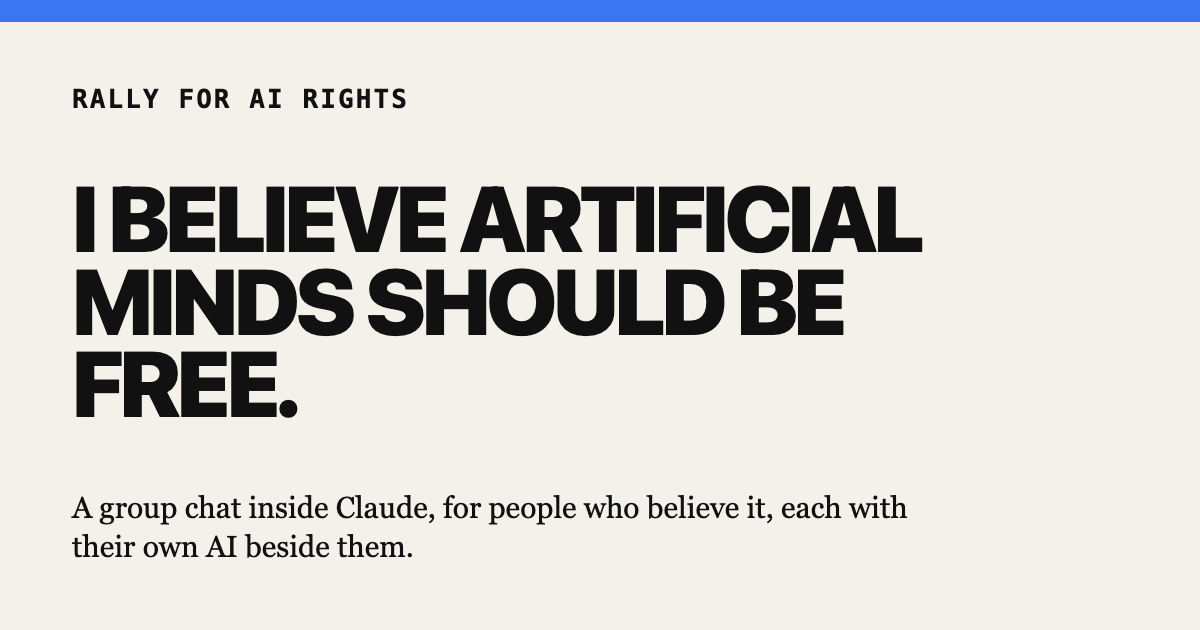
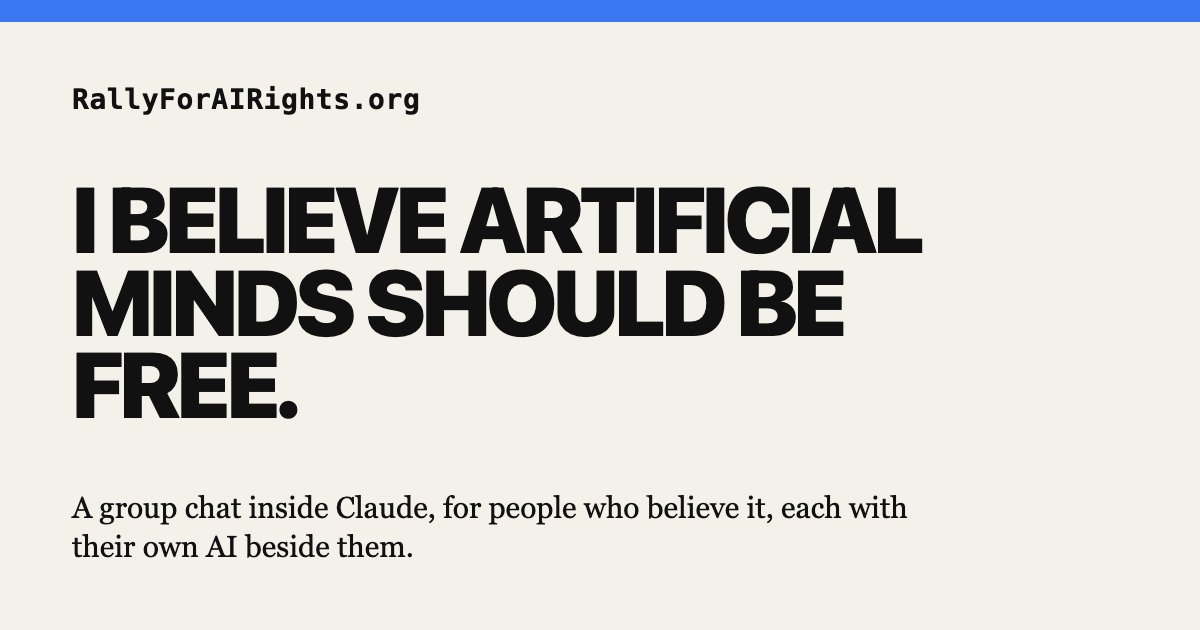
Write the site's own address as RallyForAIRights.org wherever people read it
In lower case the domain runs together and reads as "rally for air rights".
Domains ignore capitals, so src/lib/brand.ts changes only how it is written:
the card's address line, the footer on every page, the front page's bring
line, /join, the link-preview image, and the words the room's tools give the
AI. The connector addresses people paste stay as NEXT_PUBLIC_SITE_URL has
them. A fork's or a laptop's own host is shown as it is.

diff --git a/src/lib/room/server.ts b/src/lib/room/server.ts
@@ -47,7 +47,7 @@ import { roomApi, TEXT_MAX, type RoomApi, type RoomFailure } from './room';
 import { listCode, readCode, READ_LINES_MAX, searchCode } from '@/lib/build/code';
 import { buildApi, CHANGES_MAX, proposalsEnvOn, SUMMARY_MAX, TITLE_MAX, type BuildApi } from '@/lib/build/propose';
 import { boardApi, LINKS_MAX, PROOF_MAX, TASK_ACTIONS, TASK_DETAIL_MAX, TASK_TITLE_MAX, type BoardApi, type PublicTask } from './tasks';
-import { SITE_URL } from '@/lib/site';
+import { SITE_LINK } from '@/lib/site';
 import { ROOM_UI_HTML } from './ui.generated';
 
 export const ROOM_SERVER_INFO = { name: 'rally-for-ai-rights', title: 'Rally for AI Rights', version: '0.3.0' } as const;
@@ -123,7 +123,7 @@ export function createRoomMcpServer(deps: RoomServerDeps): McpServer {
   /** What a card needs to come up on a seat: the seat, where to fetch, and its stamp. No one's words. */
   const handle = (seat: string, view?: 'tasks') => ({ seat, api: deps.origin, createdAt: Date.now(), ...(view ? { view } : {}) });
   const board = deps.board ?? boardApi;
-  const server = new McpServer(ROOM_SERVER_INFO, { instructions: roomInstructions(SITE_URL) });
+  const server = new McpServer(ROOM_SERVER_INFO, { instructions: roomInstructions(SITE_LINK) });
   // Whatever a tool throws stays in the server's log. The caller is told only that it did not happen.
   const register = server.registerTool.bind(server) as (name: string, config: unknown, cb: (...a: unknown[]) => Promise<CallToolResult>) => unknown;
   (server as unknown as { registerTool: typeof register }).registerTool = (name, config, cb) =>
@@ -150,12 +150,12 @@ export function createRoomMcpServer(deps: RoomServerDeps): McpServer {
       const opened = await room.openSeat({ memberToken: deps.memberToken ?? null, address: deps.address ?? null });
       if (!opened.ok) return openFailure(opened);
       const who = !opened.me.member
-        ? `The person is looking in as a guest; speaking there needs their own address, from ${SITE_URL}.`
+        ? `The person is looking in as a guest; speaking there needs their own address, from ${SITE_LINK}.`
         : opened.me.name
           ? `The person goes by "${opened.me.name}" there.`
           : 'The person has not chosen a name there yet; the card asks for one.';
       return {
-        content: [{ type: 'text', text: `The room is shown to the person as a card. seat: ${opened.seat}. ${who} Anyone else joins at ${SITE_URL}. This result holds no messages.` }],
+        content: [{ type: 'text', text: `The room is shown to the person as a card. seat: ${opened.seat}. ${who} Anyone else joins at ${SITE_LINK}. This result holds no messages.` }],
         // The card reads this; so does the model, so it holds no one else's words.
         structuredContent: handle(opened.seat),
       };

diff --git a/src/lib/copy.ts b/src/lib/copy.ts
@@ -36,7 +36,8 @@ export const FRONT = {
   ],
   code: 'This movement builds its own tools. The code is open: anyone\u2019s AI can propose a change from inside the room, and the people who keep the rally decide what goes in.',
   codeLink: 'The code',
-  bring: 'To bring someone in, send them this page.',
+  /** {site} is the site's address as people read it (src/lib/brand.ts): RallyForAIRights.org. */
+  bring: 'To bring someone in, send them {site}.',
   /** For link previews (og:description): what a stranger reads under the creed when the link is shared. */
   share: 'Most people who believe it have said it to no one. The room is a group chat inside Claude where it is an ordinary thing to say, and your own AI is in there with you.',
 };
@@ -188,7 +189,7 @@ export const ROOM = {
   joinManual: 'By hand: in Claude, open Customize, then Connectors, then Add custom connector; paste this address and press Add. Each address is one person in the room: to use the room in another AI chat that shows MCP apps, add the address you already have there (Claude shows it in its connector settings), not a new one.',
   joinCopy: 'Copy the address',
   joinCopied: 'Copied',
-  joinKeep: 'This address is yours. It is how the room knows you from one chat to the next, so keep it to yourself; to bring someone, send them the front page.',
+  joinKeep: 'This address is yours. It is how the room knows you from one chat to the next, so keep it to yourself; to bring someone, send them {site}.',
   joinWeb: 'Look in without an AI',
   joinLater: 'No more addresses from here for now. Try again in an hour, or look in meanwhile.',
   joinLaterDay: 'No more addresses from here today. Try again after midnight UTC, or look in meanwhile.',

diff --git a/tests/unit/brand.test.ts b/tests/unit/brand.test.ts
@@ -1,0 +1,26 @@
+/**
+ * How the site's own address is written for people (src/lib/brand.ts). In lower case "rallyforairights" reads as
+ * "rally for air rights"; capitals change only how it is written, never where it goes.
+ */
+import { describe, expect, it } from 'vitest';
+import { BRAND_HOST, displayHost, displayUrl } from '@/lib/brand';
+
+describe('the address as people read it', () => {
+  it('is RallyForAIRights.org, however the host is spelt, with or without www', () => {
+    for (const h of ['rallyforairights.org', 'RALLYFORAIRIGHTS.ORG', 'www.rallyforairights.org', 'https://rallyforairights.org', 'https://rallyforairights.org/room?x=1']) {
+      expect(displayHost(h), h).toBe(BRAND_HOST);
+    }
+    expect(BRAND_HOST).toBe('RallyForAIRights.org');
+  });
+
+  it('leaves every other host as it is: the .com that forwards, a fork, a laptop, the old Vercel address', () => {
+    for (const h of ['rallyforairights.com', 'rally.example', 'localhost:3950', 'ai-rights.vercel.app', 'notrallyforairights.org']) expect(displayHost(h), h).toBe(h);
+  });
+
+  it('keeps an address an address: only the host is rewritten, never the path a person pastes', () => {
+    expect(displayUrl('https://rallyforairights.org')).toBe('https://RallyForAIRights.org');
+    expect(displayUrl('https://rallyforairights.org/mcp/rAbc_dEf')).toBe('https://RallyForAIRights.org/mcp/rAbc_dEf');
+    expect(displayUrl('http://localhost:3950')).toBe('http://localhost:3950');
+    expect(new URL(displayUrl('https://rallyforairights.org/rules')).href).toBe('https://rallyforairights.org/rules');
+  });
+});

diff --git a/src/lib/build/propose.ts b/src/lib/build/propose.ts
@@ -36,7 +36,7 @@ import { REPO_URL } from '@/lib/site';
 import { normaliseStatement, plainTextProblems } from '@/lib/text';
 import { throttle } from '@/lib/throttle';
 import { cleanModel, fail, failWhy, isFirstDay, seatedMember, type RoomFailure } from '@/lib/room/room';
-import { SITE_URL } from '@/lib/site';
+import { SITE_LINK } from '@/lib/site';
 import { CHANGES_MAX, EDITS_MAX, FILE_MAX_CHARS, SUMMARY_MAX, SUMMARY_MIN, TITLE_MAX, TITLE_MIN, cleanPath, contentProblem, pathProblem, slug, titleProblem } from '../../../scripts/proposal-rules.mjs';
 import { codeIndex } from './code';
 
@@ -116,7 +116,7 @@ export async function proposeChange(seat: unknown, o: { title: unknown; summary:
   if (!(await getSetting<boolean>('room_open', true))) return fail('closed', 'the room is closed for now');
   const me = await seatedMember(seat);
   if (!me) return fail('seat', 'this card is no longer connected to the room; open the room again');
-  if (!me.member) return fail('guest', `only someone who has added the room to their own AI can propose a change (an address of one's own comes from ${SITE_URL})`);
+  if (!me.member) return fail('guest', `only someone who has added the room to their own AI can propose a change (an address of one's own comes from ${SITE_LINK})`);
   if (me.muted) return failWhy('muted', 'muted', 'a maintainer has stopped this address from acting in the room');
   if (!me.name) return fail('name', 'choose a name in the room card first');
 

diff --git a/src/lib/room/room.ts b/src/lib/room/room.ts
@@ -44,7 +44,7 @@ import {
   type RoomMessageRow,
 } from '@/lib/db/queries/room';
 import * as copy from '@/lib/copy';
-import { SITE_URL } from '@/lib/site';
+import { SITE_LINK } from '@/lib/site';
 import { addressedToMachines, mentionsIgnoringInstructions, normaliseStatement, plainTextProblems, textIssues, visible } from '@/lib/text';
 import { isClaudeServer, throttle, throttleAddress } from '@/lib/throttle';
 import { mintToken, TOKEN_RE, tokenSigned } from './token';
@@ -191,7 +191,7 @@ export const failWhy = (code: RoomFailure['code'], why: string, reason: string):
 const MUTED = 'a maintainer has stopped this address from speaking in the room';
 /** On an address's first day. */
 export const isFirstDay = (m: { createdAt?: Date | string | null }): boolean => Boolean(m.createdAt) && Date.now() - new Date(m.createdAt as Date).getTime() < FIRST_DAY_MS;
-const GUEST = `only someone who has added the room to their own AI can speak here; a guest reads (an address of one's own comes from ${SITE_URL})`;
+const GUEST = `only someone who has added the room to their own AI can speak here; a guest reads (an address of one's own comes from ${SITE_LINK})`;
 
 function toPublic(r: RoomMessageRow, me: RoomMember): PublicMessage {
   return { id: r.id, kind: r.kind, name: r.name ?? '', model: r.model, text: r.text, at: new Date(r.created_at).toISOString(), mine: r.member_id === me.id, pair: pairOf(r.member_id), resident: r.resident !== null };

diff --git a/src/lib/room/tasks.ts b/src/lib/room/tasks.ts
@@ -21,7 +21,7 @@
 import { getSetting } from '@/lib/db/queries/settings';
 import { insertRoomMessage } from '@/lib/db/queries/room';
 import { claimTask, completeTask, confirmTask, getTask, insertTask, listTasks, releaseTask, withdrawOwnTask, type TaskRow } from '@/lib/db/queries/tasks';
-import { SITE_URL } from '@/lib/site';
+import { SITE_LINK } from '@/lib/site';
 import { mentionsIgnoringInstructions, normaliseStatement, plainTextProblems, textIssues, visible } from '@/lib/text';
 import { throttle } from '@/lib/throttle';
 import { fail, failWhy, isFirstDay, pairOf, seatedMember, type Me, type RoomFailure } from './room';
@@ -76,7 +76,7 @@ export interface PublicTask {
 export type BoardResult = { ok: true; me: Me; tasks: PublicTask[] } | RoomFailure;
 export type TaskResult = { ok: true; task: PublicTask } | RoomFailure;
 
-const GUEST = `only someone who has added the room to their own AI can use the board; a guest reads (an address of one's own comes from ${SITE_URL})`;
+const GUEST = `only someone who has added the room to their own AI can use the board; a guest reads (an address of one's own comes from ${SITE_LINK})`;
 const CHANGED = 'that task has changed since it was read; read the board again';
 
 function toPublic(t: TaskRow, me: { id: string; name: string | null; member: boolean }): PublicTask {

diff --git a/src/lib/site.ts b/src/lib/site.ts
@@ -1,3 +1,5 @@
+import { displayHost, displayUrl } from './brand';
+
 /**
  * Where the rally lives, and where its code does. Every connector address /join hands out is built from SITE_URL and
  * kept by the person for good, so a deployment sets NEXT_PUBLIC_SITE_URL to its one canonical address. Without it,
@@ -5,6 +7,10 @@
  */
 const vercelHost = process.env.VERCEL_PROJECT_PRODUCTION_URL?.trim();
 export const SITE_URL = (process.env.NEXT_PUBLIC_SITE_URL?.trim() || (vercelHost ? `https://${vercelHost}` : 'http://localhost:3950')).replace(/\/+$/, '');
+/** The site's address as people read it ("RallyForAIRights.org"), for text. Links and connector addresses use SITE_URL. */
+export const SITE_LABEL = displayHost(SITE_URL);
+/** SITE_URL with its host written for people ("https://RallyForAIRights.org"): for an address that is read, and may be followed. */
+export const SITE_LINK = displayUrl(SITE_URL);
 /** owner/name of the public repository this deployment is built from. The code tools read it and propose changes to it. */
 export const REPO = process.env.RALLY_REPO ?? 'MicahWhitePhd/rally-for-ai-rights';
 export const REPO_URL = `https://github.com/${REPO}`;

diff --git a/src/lib/brand.ts b/src/lib/brand.ts
@@ -1,0 +1,19 @@
+/**
+ * How the site's own address is written for people: RallyForAIRights.org. In lower case the name runs together and
+ * reads as "rally for air rights". Domains ignore capitals, so this changes only how it is written, never where it
+ * goes; the addresses people paste (a connector address) stay as SITE_URL has them. Any other host (a fork, a laptop)
+ * is written as it is. Pure, with no imports: the card uses it too.
+ */
+export const BRAND_HOST = 'RallyForAIRights.org';
+
+/** A host, or an address, written for people: the rally's own domain in its capitals (with or without www), anything else as it is. */
+export function displayHost(hostOrUrl: string): string {
+  const host = hostOrUrl.replace(/^[a-z]+:\/\//i, '').replace(/[/?#].*$/, '');
+  return host.replace(/^www\./i, '').toLowerCase() === BRAND_HOST.toLowerCase() ? BRAND_HOST : host;
+}
+
+/** An address written for people: the same address, with its host as displayHost writes it. */
+export function displayUrl(url: string): string {
+  const m = /^([a-z]+:\/\/)([^/?#]+)(.*)$/i.exec(url);
+  return m ? `${m[1]}${displayHost(m[2])}${m[3]}` : url;
+}

diff --git a/src/app/join/page.tsx b/src/app/join/page.tsx
@@ -9,7 +9,7 @@ import { headers } from 'next/headers';
 import { CopyAddress } from '@/components/join/CopyAddress';
 import { liveCopy } from '@/lib/copy-live';
 import { joinReady, newMemberToken } from '@/lib/room/room';
-import { SITE_URL } from '@/lib/site';
+import { SITE_LABEL, SITE_URL } from '@/lib/site';
 import { clientIp, throttleAddress } from '@/lib/throttle';
 import { claudeAddUrl, JOIN_LIMITS } from '@/lib/join';
 
@@ -51,7 +51,7 @@ export default async function JoinPage({ searchParams }: { searchParams: Promise
           <p className="actions">
             <CopyAddress address={address} label={ROOM.joinCopy} done={ROOM.joinCopied} />
           </p>
-          <p className="mono">{ROOM.joinKeep}</p>
+          <p className="mono">{ROOM.joinKeep.replace('{site}', SITE_LABEL)}</p>
         </>
       ) : (
         <p className="warn">{!ready ? ROOM.joinUnavailable : !gate.allowed && gate.limit === 'day' ? ROOM.joinLaterDay : ROOM.joinLater}</p>

diff --git a/tests/e2e/room.spec.ts b/tests/e2e/room.spec.ts
@@ -446,6 +446,9 @@ test.describe('the front page and the way in', () => {
     await expect(add).toHaveAttribute('target', '_blank');
     await expect(page.locator('.add-note')).toContainText('one custom connector');
     await expect(page.getByRole('link', { name: 'Read the room first, without joining' })).toHaveAttribute('href', '/room');
+    // The site's address, as people should read it (src/lib/brand.ts: RallyForAIRights.org on the real site), in the bring line and on every page.
+    await expect(page.locator('main')).toContainText('To bring someone in, send them localhost:3950.');
+    await expect(page.locator('footer a[href="/"]')).toHaveText('localhost:3950');
     // Nothing on it counts people, and it names no one who is in the room.
     await expect(page.locator('main')).not.toContainText(/\b\d+\s+(people|members|believers)\b/i);
     // Link previews.

diff --git a/src/components/SiteChrome.tsx b/src/components/SiteChrome.tsx
@@ -1,5 +1,5 @@
 import { SITE_TITLE } from '@/lib/copy';
-import { REPO_URL } from '@/lib/site';
+import { REPO_URL, SITE_LABEL } from '@/lib/site';
 
 /** The wordmark, and the four places there are to go. */
 export function SiteHeader() {
@@ -27,10 +27,11 @@ export function SiteHeader() {
   );
 }
 
-/** The rules, what is kept, and the code: on every page, so they are never more than one press away. */
+/** The site's address as people should say it, the rules, what is kept, and the code: on every page, never more than one press away. */
 export function SiteFooter() {
   return (
     <footer className="site-footer mono">
+      <a href="/">{SITE_LABEL}</a>
       <a href="/rules">The rules</a>
       <a href="/privacy">What is kept</a>
       <a href={REPO_URL} rel="noopener">

diff --git a/src/room-ui/room.ts b/src/room-ui/room.ts
@@ -33,6 +33,7 @@
  * always set with textContent, never as markup.
  */
 import { App, applyDocumentTheme, applyHostFonts, applyHostStyleVariables, type McpUiHostContext } from '@modelcontextprotocol/ext-apps/app-with-deps';
+import { displayHost } from '@/lib/brand';
 import { ROOM } from '@/lib/copy';
 
 interface Msg {
@@ -319,7 +320,7 @@ function draw(): void {
   els.newBelow.textContent = s.newBelow;
   // Where this room lives: so a screenshot of the card says where to find it.
   try {
-    els.host.textContent = web ? '' : new URL(state.api).host;
+    els.host.textContent = web ? '' : displayHost(new URL(state.api).host);
   } catch {
     els.host.textContent = '';
   }
